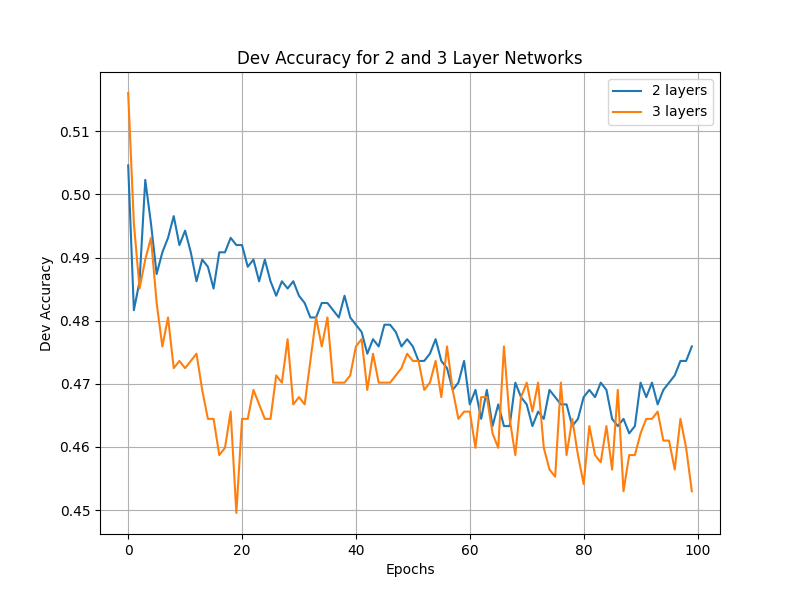
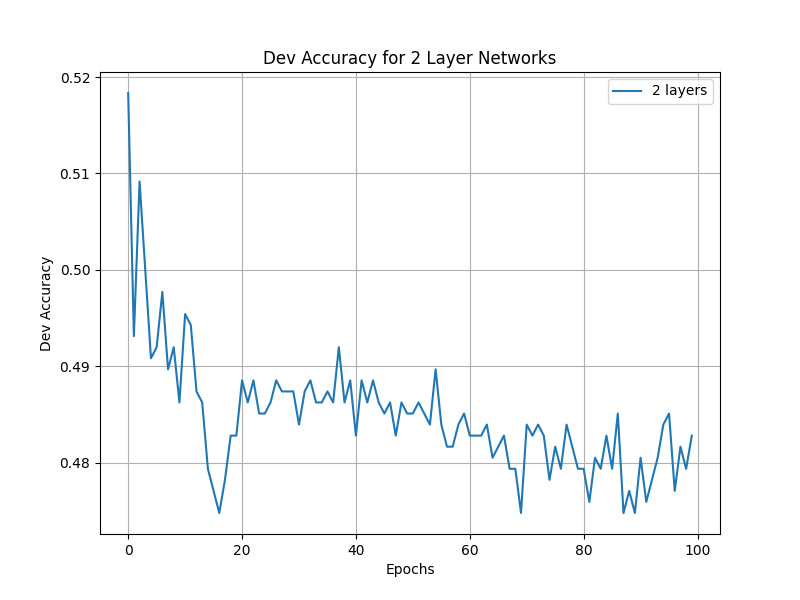
går att köra DAN

diff --git a/PA1/DANmodels.py b/PA1/DANmodels.py
@@ -2,31 +2,48 @@ import torch.nn as nn
 import torch
 import numpy as np
 import torch.nn.functional as F
-
-
 from sentiment_data import read_word_embeddings
 
 class DAN(nn.Module):
-    def __init__(self, arc: list[int], pretrained_embeddings, vocab_size, embedding_dim):
-        super(DAN, self).__init__()
-
-        self.embedding = nn.Embedding(num_embeddings=vocab_size, embedding_dim=embedding_dim)
-        if pretrained_embeddings is not None:
-            self.embedding.weight.data.copy_(torch.tensor(pretrained_embeddings))
-
-        self.layers = []
-        self.nbr_layers = len(list)
-        for i in range(len(arc)-1):
-            layer = nn.Linear(arc[i], arc[i+1])
-            self.layers.add(layer)
+    def __init__(self, input_size, hidden_size):
+        super().__init__()
+        self.fc1 = nn.Linear(input_size, hidden_size)
+        self.fc2 = nn.Linear(hidden_size, 2)
         self.log_softmax = nn.LogSoftmax(dim=1)
 
-    def forward(self, word_indices):
-        embeddings = self.embedding(word_indices)
+    def forward(self, x):
+        # embeddings = self.embedding(word_indices)
         
-        # Compute the average of the embeddings
-        x = torch.mean(embeddings, dim=1)
+        # # Compute the average of the embeddings
+        # x = torch.mean(embeddings, dim=1)
+        x = F.relu(self.fc1(x))
+        x = self.fc2(x)
+        x = self.log_softmax(x)
+        return x
 
-        for layer in range(self.nbr_layers-1):
-            x = F.relu(layer(x))
-        return F.log_softmax(self.layers[self.nbr_layers-1](x))
+# class DAN(nn.Module):
+#     def __init__(self, arc: list[int], pretrained_embeddings, vocab_size, embedding_dim):
+#         super(DAN, self).__init__()
+
+#         self.embedding = nn.Embedding(num_embeddings=vocab_size, embedding_dim=embedding_dim)
+#         if pretrained_embeddings is not None:
+#             self.embedding.weight.data.copy_(torch.tensor(pretrained_embeddings))
+
+#         self.layers = []
+#         self.nbr_layers = len(arc)
+#         for i in range(len(arc)-1):
+#             layer = nn.Linear(arc[i], arc[i+1])
+#             self.layers.append(layer)
+#         self.log_softmax = nn.LogSoftmax(dim=1)
+
+#     def forward(self, word_indices):
+#         embeddings = self.embedding(word_indices)
+        
+#         # Compute the average of the embeddings
+#         x = torch.mean(embeddings, dim=1)
+
+#         for layer in self.layers[:-1]:
+#             x = F.relu(layer(x))
+#         x = self.layers[-1](x)
+#         return F.log_softmax(self.layers[self.nbr_layers-1](x))
+    

diff --git a/PA1/main.py b/PA1/main.py
@@ -4,6 +4,7 @@ import torch
 from torch import nn
 import torch.nn.functional as F
 from sklearn.feature_extraction.text import CountVectorizer
+from DANmodels import DAN
 from sentiment_data import read_sentiment_examples
 from torch.utils.data import Dataset, DataLoader
 import time
@@ -145,8 +146,41 @@ def main():
         # plt.show()
 
     elif args.model == "DAN":
-        #TODO:  Train and evaluate your DAN
-        print("DAN model not implemented yet")
+        start_time = time.time()
+        print('\n2 layers:')
+        nn2_train_accuracy, nn2_test_accuracy = experiment(DAN(input_size=512, hidden_size=100), train_loader, test_loader)
+
+        # Train and evaluate NN3
+
+        # Plot the training accuracy
+        plt.figure(figsize=(8, 6))
+        plt.plot(nn2_train_accuracy, label='2 layers')
+        plt.xlabel('Epochs')
+        plt.ylabel('Training Accuracy')
+        plt.title('Training Accuracy for 2 Layer Networks')
+        plt.legend()
+        plt.grid()
+
+        # Save the training accuracy figure
+        training_accuracy_file = 'train_accuracy.png'
+        plt.savefig(training_accuracy_file)
+        print(f"\n\nTraining accuracy plot saved as {training_accuracy_file}")
+
+        # Plot the testing accuracy
+        plt.figure(figsize=(8, 6))
+        plt.plot(nn2_test_accuracy, label='2 layers')
+        plt.xlabel('Epochs')
+        plt.ylabel('Dev Accuracy')
+        plt.title('Dev Accuracy for 2 Layer Networks')
+        plt.legend()
+        plt.grid()
+
+        # Save the testing accuracy figure
+        testing_accuracy_file = 'dev_accuracy.png'
+        plt.savefig(testing_accuracy_file)
+        print(f"Dev accuracy plot saved as {testing_accuracy_file}\n\n")
+
+        # plt.show()
 
 if __name__ == "__main__":
     main()
